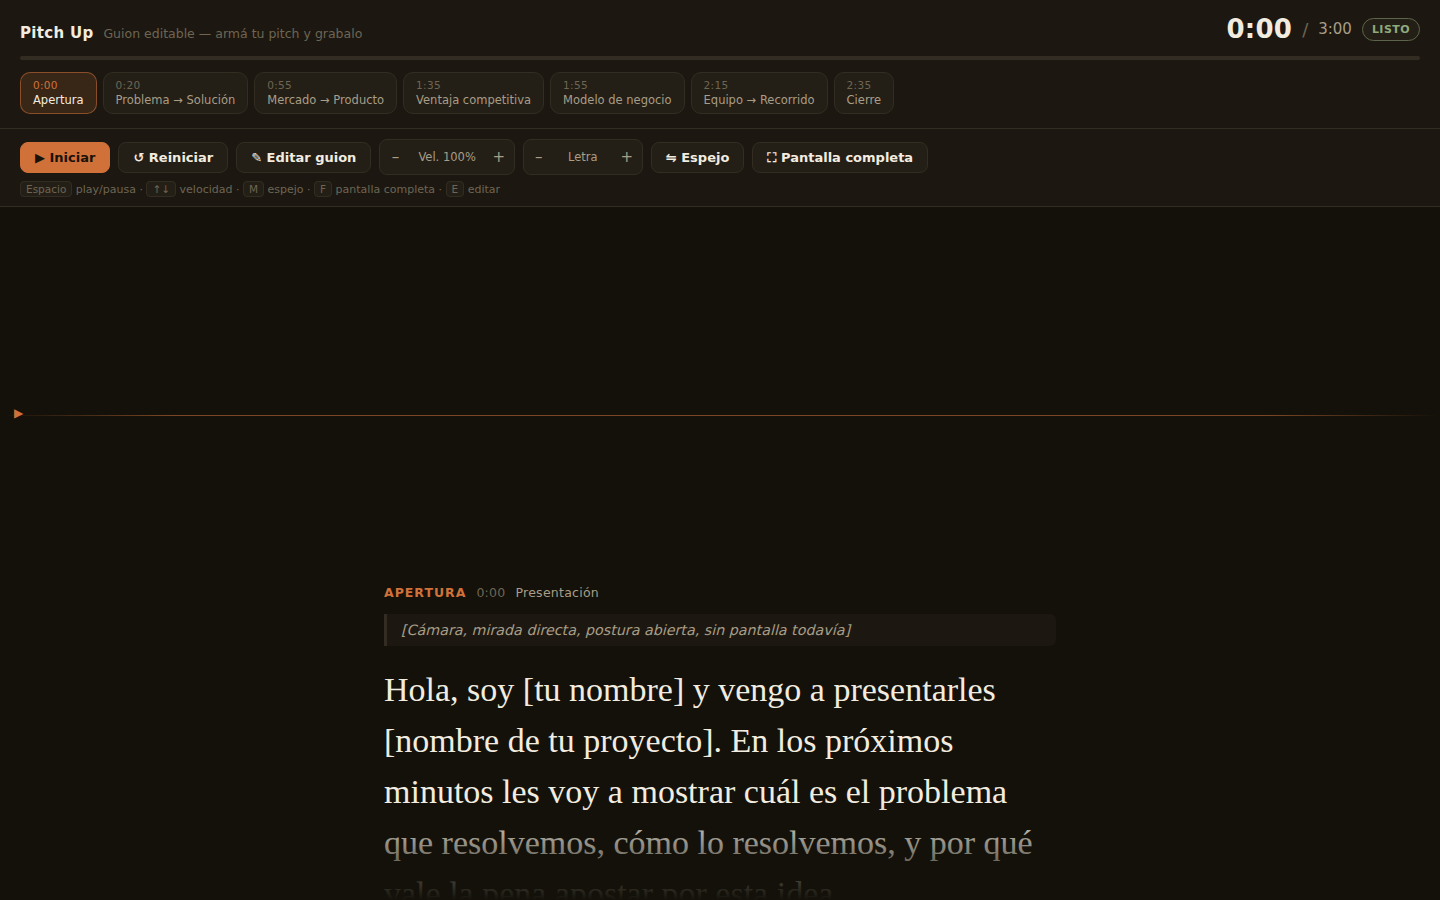
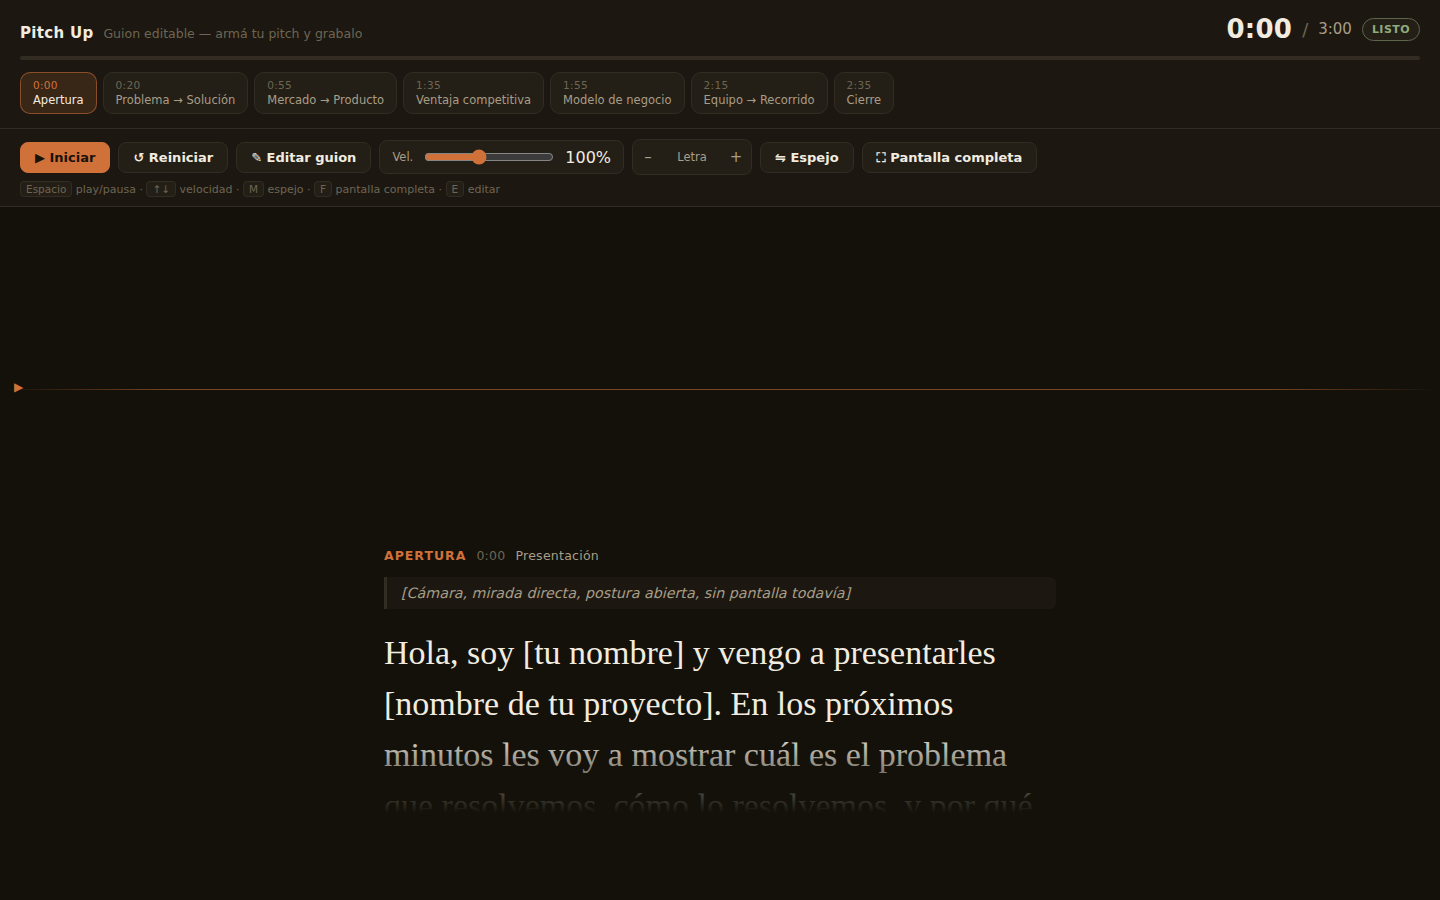
Replace speed +/- buttons with a slider for finer manual control
Steps go from 10% to 5% increments, and the value is now adjustable
by dragging instead of only stepping. Keyboard shortcuts (arrow keys)
still work the same when focus isn't on the slider itself.

diff --git a/index.html b/index.html
@@ -269,6 +269,36 @@
     font-variant-numeric: tabular-nums;
   }
 
+  .speed-control {
+    display: inline-flex;
+    align-items: center;
+    gap: 9px;
+    height: 34px;
+    background: var(--bg-chip);
+    border: 1px solid var(--rule);
+    border-radius: 8px;
+    padding: 0 12px;
+  }
+  .speed-control-label {
+    font-size: 11.5px;
+    color: var(--text-dim);
+    white-space: nowrap;
+  }
+  .speed-control input[type="range"] {
+    width: 130px;
+    accent-color: var(--accent);
+    cursor: pointer;
+  }
+  .speed-control input[type="range"]:focus-visible {
+    outline: 2px solid var(--focus);
+    outline-offset: 3px;
+  }
+  .speed-control .stepper-label {
+    padding: 0;
+    min-width: 34px;
+    text-align: right;
+  }
+
   .spacer { flex: 1 1 auto; }
 
   .hint {
@@ -629,10 +659,11 @@
   <button class="ctrl" id="resetBtn">↺ Reiniciar</button>
   <button class="ctrl" id="editBtn">✎ Editar guion</button>
 
-  <div class="stepper" aria-label="Velocidad de scroll">
-    <button id="speedDown" aria-label="Bajar velocidad">–</button>
-    <span class="stepper-label" id="speedLabel">Vel. 100%</span>
-    <button id="speedUp" aria-label="Subir velocidad">+</button>
+  <div class="speed-control">
+    <span class="speed-control-label" id="speedControlLabel">Vel.</span>
+    <input type="range" id="speedSlider" min="30" max="200" step="5" value="100"
+           aria-labelledby="speedControlLabel" aria-valuetext="100%">
+    <span class="stepper-label" id="speedLabel">100%</span>
   </div>
 
   <div class="stepper" aria-label="Tamaño de letra">
@@ -762,6 +793,7 @@
   var progressFill = document.getElementById('progressFill');
   var pacePill = document.getElementById('pacePill');
   var speedLabel = document.getElementById('speedLabel');
+  var speedSlider = document.getElementById('speedSlider');
   var sectionsNav = document.getElementById('sections');
   var mirrorBtn = document.getElementById('mirrorBtn');
   var fullscreenBtn = document.getElementById('fullscreenBtn');
@@ -1036,13 +1068,15 @@
   });
   resetBtn.addEventListener('click', reset);
 
-  document.getElementById('speedUp').addEventListener('click', function () {
-    speedPct = Math.min(200, speedPct + 10);
-    speedLabel.textContent = 'Vel. ' + speedPct + '%';
-  });
-  document.getElementById('speedDown').addEventListener('click', function () {
-    speedPct = Math.max(30, speedPct - 10);
-    speedLabel.textContent = 'Vel. ' + speedPct + '%';
+  function setSpeed(pct) {
+    pct = Math.max(30, Math.min(200, Math.round(pct / 5) * 5));
+    speedPct = pct;
+    speedSlider.value = pct;
+    speedLabel.textContent = pct + '%';
+    speedSlider.setAttribute('aria-valuetext', pct + '%');
+  }
+  speedSlider.addEventListener('input', function () {
+    setSpeed(parseInt(speedSlider.value, 10));
   });
 
   document.getElementById('sizeUp').addEventListener('click', function () {
@@ -1093,10 +1127,10 @@
       if (playing) pause(); else play();
     } else if (e.code === 'ArrowUp') {
       e.preventDefault();
-      document.getElementById('speedUp').click();
+      setSpeed(speedPct + 5);
     } else if (e.code === 'ArrowDown') {
       e.preventDefault();
-      document.getElementById('speedDown').click();
+      setSpeed(speedPct - 5);
     } else if (e.key === 'm' || e.key === 'M') {
       mirrorBtn.click();
     } else if (e.key === 'f' || e.key === 'F') {

diff --git a/README.md b/README.md
@@ -54,7 +54,7 @@ python3 -m http.server 8000
 1. Presioná **✎ Editar guion** (o la tecla `E`) y reemplazá la plantilla de ejemplo por tu propio contenido: tocá **Duración total**, y en cada sección completá **Tiempo**, **Etiqueta**, **Subtítulo** y **Contenido**. Usá los botones **↑ ↓ ✕** para reordenar o borrar secciones, y **+ Agregar sección** para sumar nuevas. Guardá con **Guardar cambios**.
 2. Ubicá la pantalla con Pitch Up justo al lado de (o superpuesta a) la cámara que va a grabar.
 3. Presioná **▶ Iniciar** para arrancar el scroll automático.
-4. Ajustá la **velocidad** (`–` / `+`, o `↑` `↓` del teclado) hasta encontrar tu ritmo natural de lectura.
+4. Ajustá la **velocidad** con el slider (o `↑` `↓` del teclado) hasta encontrar tu ritmo natural de lectura.
 5. Mirá el **indicador de ritmo** arriba a la derecha: te avisa en vivo si vas en horario respecto al guion.
 6. Los bloques con fondo oscuro e itálica son **acotaciones de cámara** (ej. "[Cámara, mirada directa]") — no se leen en voz alta, son indicaciones de puesta en escena.
 7. Usá los **chips de sección** para practicar un bloque puntual sin tener que rebobinar todo el guion.